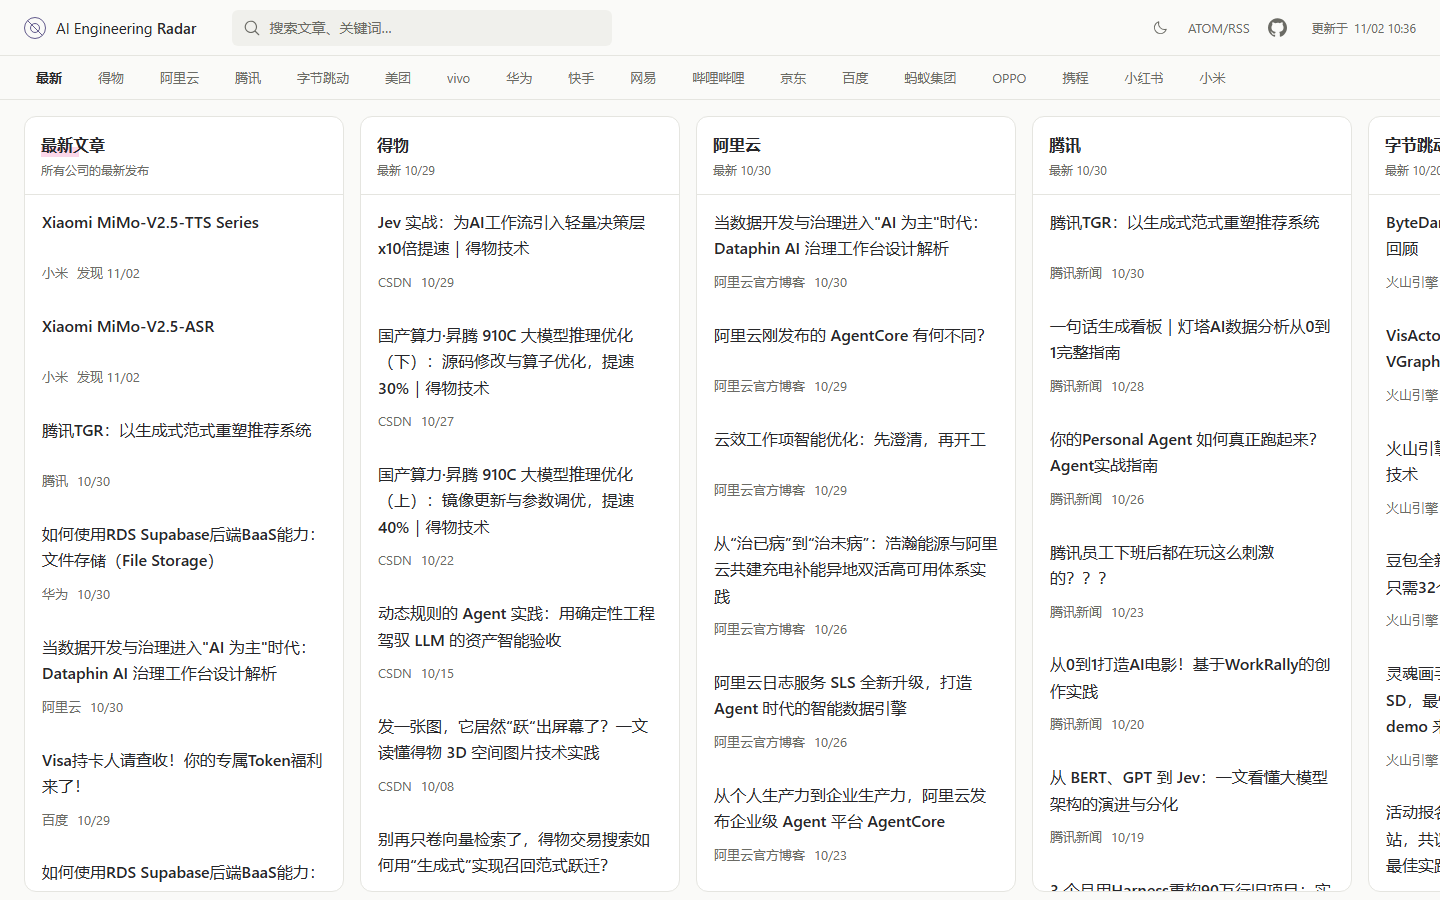
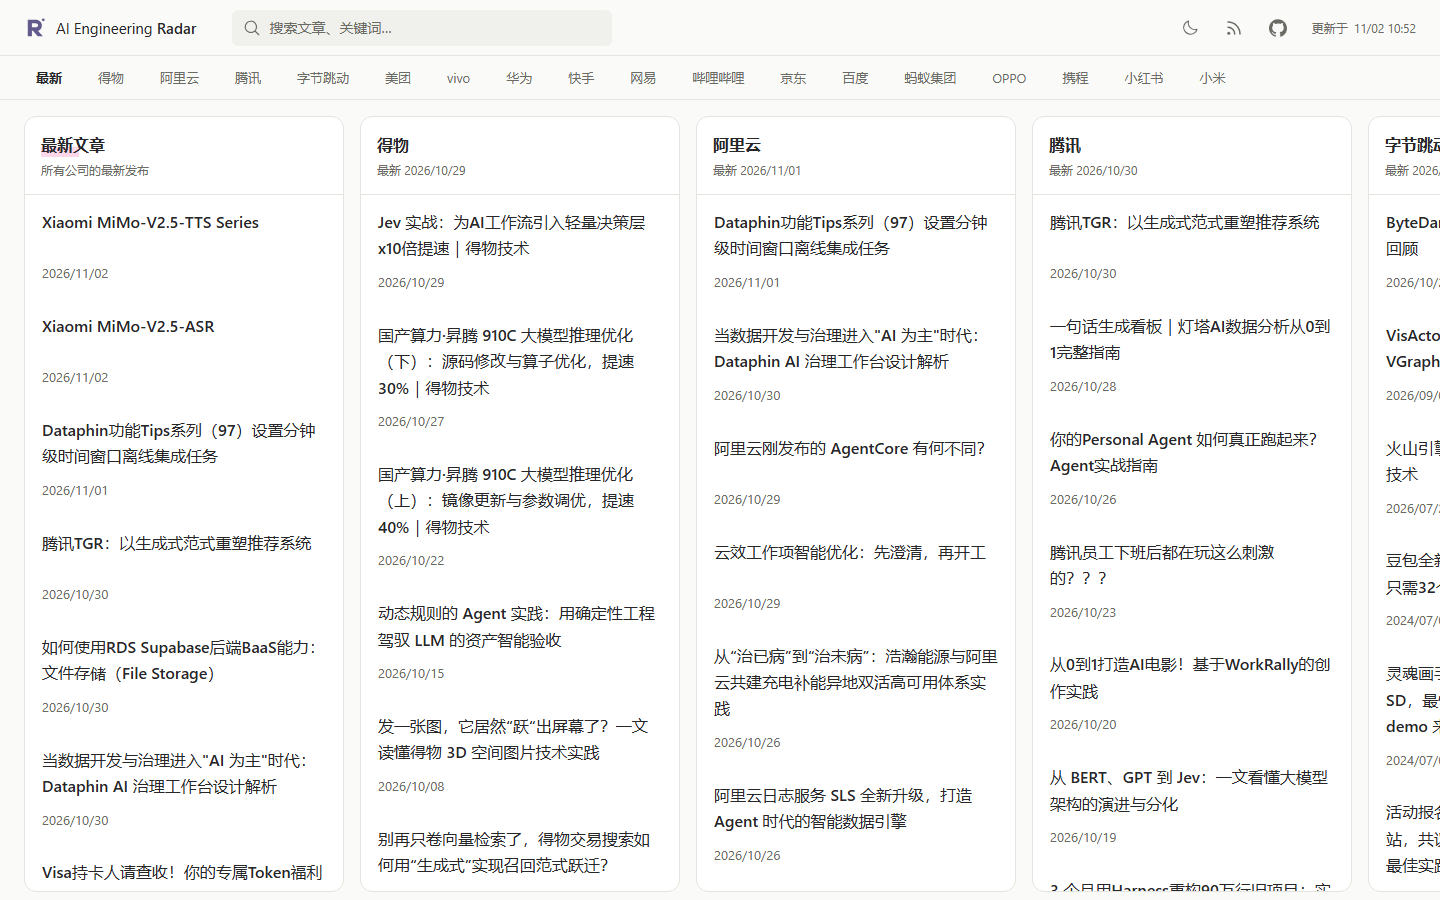
Web: show only full dates in article metadata
面板文章仅显示完整日期，移除重复的公司和渠道名称

【提交类型】
功能优化 - 阅读面板

【问题描述】
文章副信息重复展示公司或采集渠道，日期没有年份。

【原因分析】
1. 直接原因：来源文字与短日期共同占用文章副信息行。
2. 根本原因：沿用了按发布渠道展示的早期列表格式。

【修改方案】
仅显示 yyyy/MM/dd 日期，发现时间说明保留在提示中。
同步面板最新日期、设计说明和界面截图。

【影响评估】
影响轻微，限于面板副信息展示。

【兼容性分析】
原始日期、来源关系、文章链接和排序保持不变。

【需要同时入库的提交】
无

【自测结果】
1. 构建、类型校验和公开内容检查通过。
2. 桌面、手机及深浅色的文章日期展示验证通过。
3. 发布日期与发现日期的原始时间和提示验证通过。
4. 相关测试通过，自测通过

diff --git a/apps/web/src/components/article-board.tsx b/apps/web/src/components/article-board.tsx
@@ -36,23 +36,13 @@ const labels: Record<string, string> = {
 const label = (id: string) =>
   labels[id] ?? companies.find((c) => c.id === id)?.name ?? id;
 const time = (a: Article) => a.publishedAt ?? a.discoveredAt;
-const day = (value: string) =>
-  new Date(value).toLocaleDateString("zh-CN", {
-    month: "2-digit",
-    day: "2-digit",
-    timeZone: "Asia/Shanghai",
-  });
-const sourceNames: Record<string, string> = {
-  "csdn-feed": "CSDN",
-  "cnblogs-account": "博客园",
-  "aliyun-group": "阿里云官方博客",
-  "volcengine-account": "火山引擎",
-  "tencent-news": "腾讯新闻",
-};
-const sourceName = (a: Article) =>
-  sourceNames[
-    site.sources.find((s) => s.id === a.locations[0]?.sourceId)?.platform ?? ""
-  ] ?? "团队技术博客";
+const calendar = new Intl.DateTimeFormat("zh-CN", {
+  year: "numeric",
+  month: "2-digit",
+  day: "2-digit",
+  timeZone: "Asia/Shanghai",
+});
+const day = (value: string) => calendar.format(new Date(value));
 const activeCompanies = new Set(
   site.sources
     .filter((s) => s.crawl.enabled)
@@ -439,15 +429,17 @@ export function ArticleBoard() {
                       </a>
                     </h3>
                     <div className={styles.storyMeta}>
-                      <div>
-                        <span>
-                          {id === "latest" ? label(a.companyId) : sourceName(a)}
-                        </span>
-                        <time dateTime={time(a)}>
-                          {!a.publishedAt && "发现 "}
-                          {day(time(a))}
-                        </time>
-                      </div>
+                      <time
+                        dateTime={time(a)}
+                        title={
+                          a.publishedAt
+                            ? "发布时间"
+                            : "发现时间：来源未提供发布日期"
+                        }
+                        aria-label={`${a.publishedAt ? "发布时间" : "发现时间"} ${day(time(a))}`}
+                      >
+                        {day(time(a))}
+                      </time>
                       {a.advertorial?.status === "suspected" && (
                         <Link
                           className={styles.advertorialBadge}

diff --git a/apps/web/src/components/article-board.module.css b/apps/web/src/components/article-board.module.css
@@ -227,13 +227,6 @@
   line-height: 1.5;
   min-height: 24px;
 }
-.storyMeta > div {
-  display: flex;
-  flex-wrap: wrap;
-  gap: 4px 9px;
-  min-width: 0;
-  flex: 1 1 130px;
-}
 .advertorialBadge {
   position: relative;
   display: inline-flex;

diff --git a/docs/design.md b/docs/design.md
@@ -34,7 +34,7 @@ Next.js 在构建时生成首页、About 和每篇文章详情。搜索、公司
 
 首页由“最新”列和各公司列组成。“最新”汇总所有已公开文章，公司列保留各自的文章列表。整个看板横向滚动，每列独立纵向滚动。PC 在同一屏内并排展示多列；手机显示一列及下一列边缘，支持左右滑动和顶部公司导航。
 
-顶部只保留紧凑工具栏与公司导航，手机搜索按需展开，数据更新时间放在右上角。文章列表保持标题、来源和日期，点击标题直接打开发布网站。列表不显示文章数量，也不重复设置“原文”按钮。详情页继续展示发布主体及全部发布位置。About 和文章详情使用正常的纵向阅读布局。
+顶部只保留紧凑工具栏与公司导航，手机搜索按需展开，数据更新时间放在右上角。文章列表保持标题和完整日期（`yyyy/MM/dd`），副信息不再重复显示公司或采集渠道，点击标题直接打开发布网站。缺少发布日期时，发现时间的说明保留在日期提示和无障碍标签中。列表不显示文章数量，也不重复设置“原文”按钮。详情页继续展示发布主体及全部发布位置。About 和文章详情使用正常的纵向阅读布局。
 
 搜索覆盖标题、摘要和作者。文章固定按最新优先展示，不提供排序控件；旧链接的 `sort` 参数会被忽略并清理。每列初始显示 20 篇，滚动到底部时自动追加 20 篇。自动加载只增加当前列的可见条数，不请求源站或动态文章 API。
 
